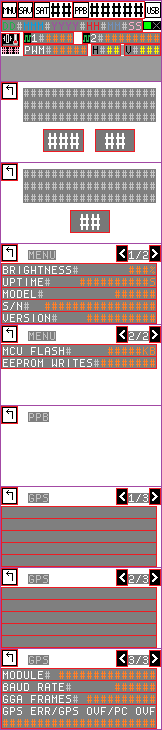
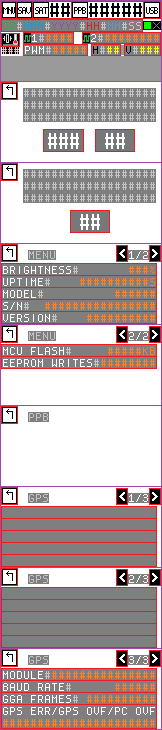
Implement new UI (WIP)

Changed region(s): [[0.0926, 0.0, 1.0, 0.0301], [0.3086, 0.9041, 0.3395, 0.9342]]

diff --git a/src/icons.c b/src/icons.c
@@ -152,23 +152,23 @@ const uint16_t icon_ppb_bad_16x16[] = {
     0x0000,0xFFFF,0x0000,0x0000,0x0000,0x0000,0xFFFF,0x0000,0x0000,0x0000,0x0000,0xFFFF,0xFFFF,0xFFFF,0x0000,0x0000,
 };
 
-const uint16_t icon_menu_15x16[] = {
-    0x0000,0x0000,0x0000,0x0000,0x0000,0x0000,0x0000,0x0000,0x0000,0x0000,0x0000,0x0000,0x0000,0x0000,0x0000,
-    0x0000,0x0000,0x0000,0x0000,0x0000,0x0000,0x0000,0x0000,0x0000,0x0000,0x0000,0x0000,0x0000,0x0000,0x0000,
-    0x0000,0x0000,0x0000,0x0000,0x0000,0x0000,0x0000,0x0000,0x0000,0x0000,0x0000,0x0000,0x0000,0x0000,0x0000,
-    0x0000,0x0000,0xFFFF,0xFFFF,0x0000,0xFFFF,0xFFFF,0xFFFF,0xFFFF,0xFFFF,0xFFFF,0xFFFF,0xFFFF,0x0000,0x0000,
-    0x0000,0x0000,0xFFFF,0xFFFF,0x0000,0xFFFF,0xFFFF,0xFFFF,0xFFFF,0xFFFF,0xFFFF,0xFFFF,0xFFFF,0x0000,0x0000,
-    0x0000,0x0000,0x0000,0x0000,0x0000,0x0000,0x0000,0x0000,0x0000,0x0000,0x0000,0x0000,0x0000,0x0000,0x0000,
-    0x0000,0x0000,0x0000,0x0000,0x0000,0x0000,0x0000,0x0000,0x0000,0x0000,0x0000,0x0000,0x0000,0x0000,0x0000,
-    0x0000,0x0000,0xFFFF,0xFFFF,0x0000,0xFFFF,0xFFFF,0xFFFF,0xFFFF,0xFFFF,0xFFFF,0xFFFF,0xFFFF,0x0000,0x0000,
-    0x0000,0x0000,0xFFFF,0xFFFF,0x0000,0xFFFF,0xFFFF,0xFFFF,0xFFFF,0xFFFF,0xFFFF,0xFFFF,0xFFFF,0x0000,0x0000,
-    0x0000,0x0000,0x0000,0x0000,0x0000,0x0000,0x0000,0x0000,0x0000,0x0000,0x0000,0x0000,0x0000,0x0000,0x0000,
-    0x0000,0x0000,0x0000,0x0000,0x0000,0x0000,0x0000,0x0000,0x0000,0x0000,0x0000,0x0000,0x0000,0x0000,0x0000,
-    0x0000,0x0000,0xFFFF,0xFFFF,0x0000,0xFFFF,0xFFFF,0xFFFF,0xFFFF,0xFFFF,0xFFFF,0xFFFF,0xFFFF,0x0000,0x0000,
-    0x0000,0x0000,0xFFFF,0xFFFF,0x0000,0xFFFF,0xFFFF,0xFFFF,0xFFFF,0xFFFF,0xFFFF,0xFFFF,0xFFFF,0x0000,0x0000,
-    0x0000,0x0000,0x0000,0x0000,0x0000,0x0000,0x0000,0x0000,0x0000,0x0000,0x0000,0x0000,0x0000,0x0000,0x0000,
-    0x0000,0x0000,0x0000,0x0000,0x0000,0x0000,0x0000,0x0000,0x0000,0x0000,0x0000,0x0000,0x0000,0x0000,0x0000,
-    0x0000,0x0000,0x0000,0x0000,0x0000,0x0000,0x0000,0x0000,0x0000,0x0000,0x0000,0x0000,0x0000,0x0000,0x0000,
+const uint16_t icon_menu_14x16[] = {
+    0x0000,0x0000,0x0000,0x0000,0x0000,0x0000,0x0000,0x0000,0x0000,0x0000,0x0000,0x0000,0x0000,0x0000,
+    0x0000,0x0000,0x0000,0x0000,0x0000,0x0000,0x0000,0x0000,0x0000,0x0000,0x0000,0x0000,0x0000,0x0000,
+    0x0000,0x0000,0x0000,0x0000,0x0000,0x0000,0x0000,0x0000,0x0000,0x0000,0x0000,0x0000,0x0000,0x0000,
+    0x0000,0x0000,0xFFFF,0xFFFF,0x0000,0xFFFF,0xFFFF,0xFFFF,0xFFFF,0xFFFF,0xFFFF,0xFFFF,0x0000,0x0000,
+    0x0000,0x0000,0xFFFF,0xFFFF,0x0000,0xFFFF,0xFFFF,0xFFFF,0xFFFF,0xFFFF,0xFFFF,0xFFFF,0x0000,0x0000,
+    0x0000,0x0000,0x0000,0x0000,0x0000,0x0000,0x0000,0x0000,0x0000,0x0000,0x0000,0x0000,0x0000,0x0000,
+    0x0000,0x0000,0x0000,0x0000,0x0000,0x0000,0x0000,0x0000,0x0000,0x0000,0x0000,0x0000,0x0000,0x0000,
+    0x0000,0x0000,0xFFFF,0xFFFF,0x0000,0xFFFF,0xFFFF,0xFFFF,0xFFFF,0xFFFF,0xFFFF,0xFFFF,0x0000,0x0000,
+    0x0000,0x0000,0xFFFF,0xFFFF,0x0000,0xFFFF,0xFFFF,0xFFFF,0xFFFF,0xFFFF,0xFFFF,0xFFFF,0x0000,0x0000,
+    0x0000,0x0000,0x0000,0x0000,0x0000,0x0000,0x0000,0x0000,0x0000,0x0000,0x0000,0x0000,0x0000,0x0000,
+    0x0000,0x0000,0x0000,0x0000,0x0000,0x0000,0x0000,0x0000,0x0000,0x0000,0x0000,0x0000,0x0000,0x0000,
+    0x0000,0x0000,0xFFFF,0xFFFF,0x0000,0xFFFF,0xFFFF,0xFFFF,0xFFFF,0xFFFF,0xFFFF,0xFFFF,0x0000,0x0000,
+    0x0000,0x0000,0xFFFF,0xFFFF,0x0000,0xFFFF,0xFFFF,0xFFFF,0xFFFF,0xFFFF,0xFFFF,0xFFFF,0x0000,0x0000,
+    0x0000,0x0000,0x0000,0x0000,0x0000,0x0000,0x0000,0x0000,0x0000,0x0000,0x0000,0x0000,0x0000,0x0000,
+    0x0000,0x0000,0x0000,0x0000,0x0000,0x0000,0x0000,0x0000,0x0000,0x0000,0x0000,0x0000,0x0000,0x0000,
+    0x0000,0x0000,0x0000,0x0000,0x0000,0x0000,0x0000,0x0000,0x0000,0x0000,0x0000,0x0000,0x0000,0x0000,
 };
 
 const uint16_t icon_save_15x16[] = {

diff --git a/src/ui.c b/src/ui.c
@@ -59,11 +59,11 @@ static void ui_proc_trend_graph(const UIElement* element, UICommand command, int
 
 static const UIElement ui_main_screen_elements[] = {
     // Top line
-    { 1,   1, 15, 16, UI_STYLE_FOCUSABLE, ui_proc_menu },
-    { 17,  1, 15, 16, UI_STYLE_FOCUSABLE, ui_proc_save },
-    { 33,  1, 38, 16, UI_STYLE_FOCUSABLE, ui_proc_gps  },
-    { 72,  1, 71, 16, UI_STYLE_FOCUSABLE, ui_proc_ppb  },
-    { 144, 1, 16, 16, UI_STYLE_FOCUSABLE, ui_proc_usb  },
+    { 1,   1, 14, 16, UI_STYLE_FOCUSABLE, ui_proc_menu },
+    { 16,  1, 15, 16, UI_STYLE_FOCUSABLE, ui_proc_save },
+    { 32,  1, 38, 16, UI_STYLE_FOCUSABLE, ui_proc_gps  },
+    { 71,  1, 71, 16, UI_STYLE_FOCUSABLE, ui_proc_ppb  },
+    { 143, 1, 16, 16, UI_STYLE_FOCUSABLE, ui_proc_usb  },
     // Main part
     { 1,   19, 140, 11, UI_STYLE_FOCUSABLE | UI_STYLE_INPUT_CAPTURING, ui_proc_datetime        },
     { 142, 20, 18,  9,  UI_STYLE_NONE,                                 ui_proc_pps             },
@@ -346,7 +346,7 @@ static void ui_proc_menu_page_right_inactive(const UIElement* element, UICommand
 static void ui_proc_menu(const UIElement* element, UICommand command, int32_t encoder_step)
 {
     if (command & UICommand_Init) {
-        ST7735_DrawImage(element->x, element->y, 15, 16, icon_menu_15x16);
+        ST7735_DrawImage(element->x, element->y, 14, 16, icon_menu_14x16);
     }
 
     if (command & UICommand_Click) {

diff --git a/src/icons.h b/src/icons.h
@@ -11,7 +11,7 @@ extern const uint16_t icon_sat_nolock_16x16[];
 extern const uint16_t icon_ppb_good_16x16[];
 extern const uint16_t icon_ppb_avg_16x16[];
 extern const uint16_t icon_ppb_bad_16x16[];
-extern const uint16_t icon_menu_15x16[];
+extern const uint16_t icon_menu_14x16[];
 extern const uint16_t icon_save_15x16[];
 extern const uint16_t icon_save_inactive_15x16[];
 extern const uint16_t icon_back_15x16[];
